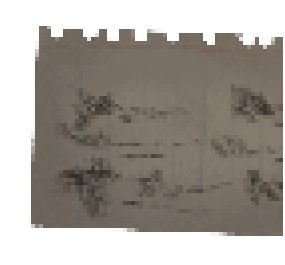
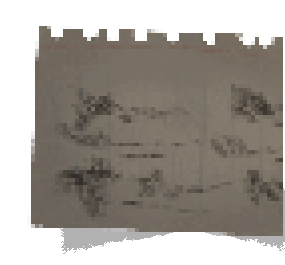
bien mal madera o metal

Changed region(s): [[0.1965, 0.8453, 0.5895, 0.966], [0.814, 0.6943, 1.0, 0.966], [0.7298, 0.8755, 0.786, 0.9057]]

diff --git a/Hollenhaus/Hollenhaus proyect VS/src/game/factories/CardFactory_v1.cpp b/Hollenhaus/Hollenhaus proyect VS/src/game/factories/CardFactory_v1.cpp
@@ -14,6 +14,7 @@
 
 #include "../EffectCollection.h"
 #include "../gamestates/GameState.h"
+#include "game/components/ShineComponent.h"
 
 
 ecs::entity_t CardFactory_v1::createCard(int id, Vector2D pos, int cost, int value, std::string& sprite,
@@ -37,6 +38,8 @@ ecs::entity_t CardFactory_v1::createCard(int id, Vector2D pos, int cost, int val
 	);
 
 	addInfo(card, cost, value, effects, !bocarriba);
+
+	addShadow(0,0,1, card->getComponent<Transform>());
 
 	if (!bocarriba)
 		addDeckImageChild(card);
@@ -114,6 +117,8 @@ ecs::entity_t CardFactory_v1::createDeck()
 		}
 	}
 	addDeckImage(initX, initY);
+	addDeckShadow(initX, initY);
+
 	TuVieja("Deck1");
 
 	return deck;
@@ -179,6 +184,7 @@ ecs::entity_t CardFactory_v1::createDeckJ2()
 
 	addDeckImage(initX, initY, true);
 	TuVieja("Deck2");
+	addDeckShadow(initX, initY);
 
 	return deck;
 }
@@ -225,6 +231,7 @@ ecs::entity_t CardFactory_v1::createDeckJ2Multiplayer()
 
 
 	addDeckImage(initX, initY, true);
+	addDeckShadow(initX, initY);
 	TuVieja("Deck2");
 
 	return deck;
@@ -372,12 +379,19 @@ void CardFactory_v1::addEffects(Card* cardComp, std::vector<JsonData::CardEffect
 
 void CardFactory_v1::addDeckImage(int initX, int initY, bool opposite)
 {
-	auto deckImage = Instantiate(Vector2D(initX, initY));
-
+	auto deckImage = Instantiate(Vector2D(initX - 5, initY - 5));
+	deckImage->addComponent<SpriteRenderer>("reverseCard");
 	deckImage->getComponent<Transform>()->setGlobalScale(Vector2D(0.65f, 0.65f));
+
 	if (opposite)
 		deckImage->getComponent<Transform>()->setGlobalAngle(180.0f);
-	deckImage->addComponent<SpriteRenderer>("reverseCard");
+	else
+	{
+		deckImage->addComponent<BoxCollider>()->setAnchoredToSprite(true);
+		deckImage->addComponent<ShineComponent>();
+		deckImage->getComponent<ShineComponent>()->addEnt(deckImage->getComponent<SpriteRenderer>(),
+		                                                  "reverseCard_brilli");
+	}
 
 	deckImage->setLayer(100);
 }
@@ -392,5 +406,29 @@ void CardFactory_v1::addDeckImageChild(ecs::entity_t card)
 	//if (opposite)
 	deckImage->getComponent<Transform>()->setGlobalAngle(180.0f);
 	deckImage->addComponent<SpriteRenderer>("reverseCard");
-	deckImage->setLayer(card->getLastLayer() + 1);
+	/*deckImage->addComponent<BoxCollider>()->setAnchoredToSprite(true);
+	deckImage->addComponent<ShineComponent>();
+	deckImage->getComponent<ShineComponent>()->addEnt(deckImage->getComponent<SpriteRenderer>(), "reverseCard_brilli");
+	*/deckImage->setLayer(card->getLastLayer() + 1);
+}
+
+void CardFactory_v1::addDeckShadow(int x, int y, int layer)
+{
+	auto sombra = Instantiate(Vector2D());
+	auto trans = sombra->getComponent<Transform>();
+	trans->setGlobalPos(x - 15, y - 15);
+	trans->setGlobalScale(Vector2D(0.65, 0.65));
+	sombra->addComponent<SpriteRenderer>("deck_sombra");
+	sombra->setLayer(layer);
+}
+
+void CardFactory_v1::addShadow(int x, int y, int layer, Transform* parent)
+{
+	auto shadow = Instantiate(Vector2D(x, y));
+	auto newPos = parent->getGlobalPos();
+	shadow->getComponent<Transform>()->setGlobalPos(newPos.getX() + 4, newPos.getY() + 4);
+	shadow->getComponent<Transform>()->setRelativePos(0,0);
+	shadow->addComponent<SpriteRenderer>("card_sombra");
+	shadow->getComponent<Transform>()->addParent(parent);
+	shadow->setLayer(layer);
 }

diff --git a/Hollenhaus/Hollenhaus proyect VS/src/game/factories/MatchStateUIFactory_v0.cpp b/Hollenhaus/Hollenhaus proyect VS/src/game/factories/MatchStateUIFactory_v0.cpp
@@ -28,8 +28,8 @@ ecs::entity_t MatchStateUIFactory_v0::createVisual_KeyButton(int posX, int posY)
 
 ecs::entity_t MatchStateUIFactory_v0::createVisual_NextTurnButton(int posX, int posY)
 {
-    ecs::entity_t endTurnButton = Instantiate(Vector2D(posX, posY));  // 200, 265
-    endTurnButton->getComponent<Transform>()->setGlobalScale(1.0, 1.0);
+    ecs::entity_t endTurnButton = Instantiate(Vector2D(posX, posY - 14));  // 200, 265
+    endTurnButton->getComponent<Transform>()->setGlobalScale(1.5, 1.5);
     //endTurnButton->getComponent<Transform>()->getGlobalScale().set(1.2, 1.2);
     endTurnButton->addComponent<SpriteRenderer>("EndTurnButton");
     endTurnButton->addComponent<BoxCollider>();
@@ -80,7 +80,7 @@ ecs::entity_t MatchStateUIFactory_v0::createVisual_BackgroundBlackBox(int posX, 
 {
 
     ecs::entity_t blackBox = Instantiate(Vector2D(posX, posY)); // 600, 200
-    blackBox->addComponent<SpriteRenderer>("black_box");
+    blackBox->addComponent<SpriteRenderer>("optfondo");
 
     // Obtenemos la altura y anchura de "black_box" para definir el tama�o del sprite en pixeles
     int textureW = blackBox->getComponent<SpriteRenderer>()->getTexture()->width();

diff --git a/Hollenhaus/Hollenhaus proyect VS/src/game/components/NPC.cpp b/Hollenhaus/Hollenhaus proyect VS/src/game/components/NPC.cpp
@@ -89,16 +89,16 @@ void NPC::talkTo()
 		npcDialogue = factory->createDialogue(dialogue.NPCName(), convo_, node,
 								{x, y},//POS
 								{2,2}, //SIZE
-								5, //Speed
-								10, //Cooldown
+								2, //Speed
+								1, //Cooldown
 								getEntity(), //Parent 
 								3, //LAYER
 								dialogue.Convo(convo_).isAuto(), //Si el texto es auto o no
-								Fonts::GROTESK_20,	//mirar el JSON resources para cambiar el tamanio de texto
-								SDL_Color({0, 0, 0, 255}), //Color black
-								220, //wrap length
-								Text::BoxPivotPoint::LeftTop,
-								Text::TextAlignment::Left);
+								Fonts::GROTESK_24,	//mirar el JSON resources para cambiar el tamanio de texto
+								Colors::MIDNIGHT_HOLLENHAUS, //Color black
+								240, //wrap length
+								Text::BoxPivotPoint::LeftCenter,
+								Text::TextAlignment::Center);
 
 		talking = true;
 	}

diff --git a/Hollenhaus/Hollenhaus proyect VS/src/game/factories/DialogueFactory_V0.cpp b/Hollenhaus/Hollenhaus proyect VS/src/game/factories/DialogueFactory_V0.cpp
@@ -39,7 +39,7 @@ ecs::entity_t DialogueFactory_V0::createDialogue(std::string id, int convo, int 
 
 
 	// el texto se encuentra en una entidad hija
-	Vector2D margin = Vector2D(10, 10);
+	Vector2D margin = Vector2D(20, 80);
 	ecs::entity_t text = Instantiate();
 	auto textTR = text->addComponent<Transform>();
 	textTR->addParent(dialogue->getComponent<Transform>());

diff --git a/Hollenhaus/Hollenhaus proyect VS/src/game/factories/CardFactory_v1.h b/Hollenhaus/Hollenhaus proyect VS/src/game/factories/CardFactory_v1.h
@@ -32,5 +32,7 @@ private:
 	void addEffects(Card* cardComp, std::vector<JsonData::CardEffect>& effects);
 	void addDeckImage(int initX, int initY, bool opposite = false);
 	void addDeckImageChild(ecs::entity_t card);
+	void addDeckShadow(int x, int y, int layer = 1);
+	void addShadow(int x = 0, int y = 0, int layer = 1, Transform* parent = nullptr);
 };
 

diff --git a/Hollenhaus/Hollenhaus proyect VS/src/game/components/ImageWithFrames.cpp b/Hollenhaus/Hollenhaus proyect VS/src/game/components/ImageWithFrames.cpp
@@ -35,7 +35,6 @@ void ImageWithFrames::initComponent()
 	spriteRend_->setCols(nCols_);
 
 	syncRenderer();
-	assert(transform_ != nullptr);
 }
 
 void ImageWithFrames::update()
